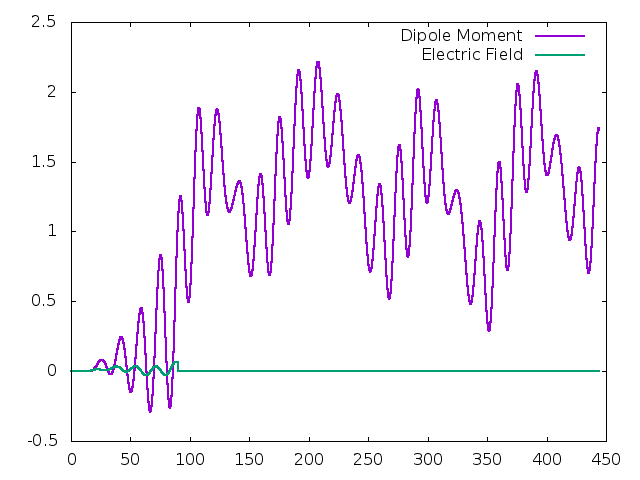
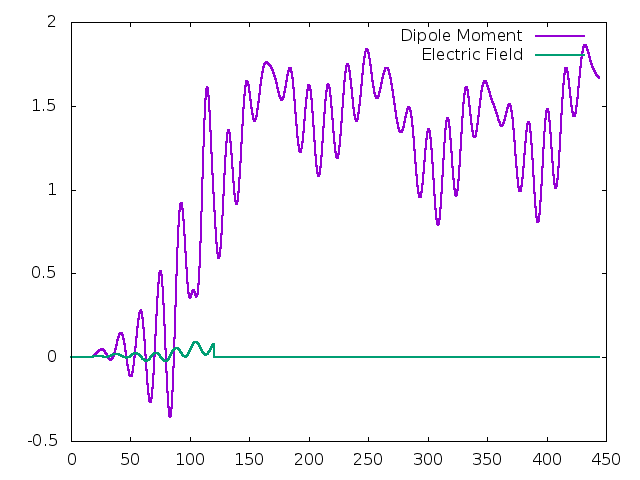
something4

diff --git a/Radial_wfn_code/Exam4.c b/Radial_wfn_code/Exam4.c
@@ -18,7 +18,7 @@ double dt = 0.002;
 // specifically, when the simulation time is equal to sigma, then
 // the laser amplitude will be zero
 // 804 atomic units of time is about 19 femto seconds
-double sigma = 90.0;
+double sigma = 120.0;
 
 // Good definition of pi
 double pi = 4.*atan(1.0);
@@ -149,7 +149,7 @@ int main()    {
   //          And absorption spectrum = FT_real*FT_real + FT_imag*FT_imag
   double Tim, rho, dpm, ef;
   FILE *fp;
-  fp = fopen("dipoleMoment_2_sigma_90.txt","w");
+  fp = fopen("dipoleMoment_2_sigma_120.txt","w");
   for (int M=0; M<MAX_TIME; M++) {
 
     Tim=M*dt;
@@ -179,7 +179,7 @@ int main()    {
  
 compute_dft(dpr, dpi, spectrum_real, spectrum_imag, MAX_TIME+10000);
  FILE *absfp;
- absfp = fopen("AbsorptionSpectrum_sigma_90.txt","w");
+ absfp = fopen("AbsorptionSpectrum_sigma_120.txt","w");
  
   int MaxFreq = 1000;
   double OMEGA_min = 0.005;
